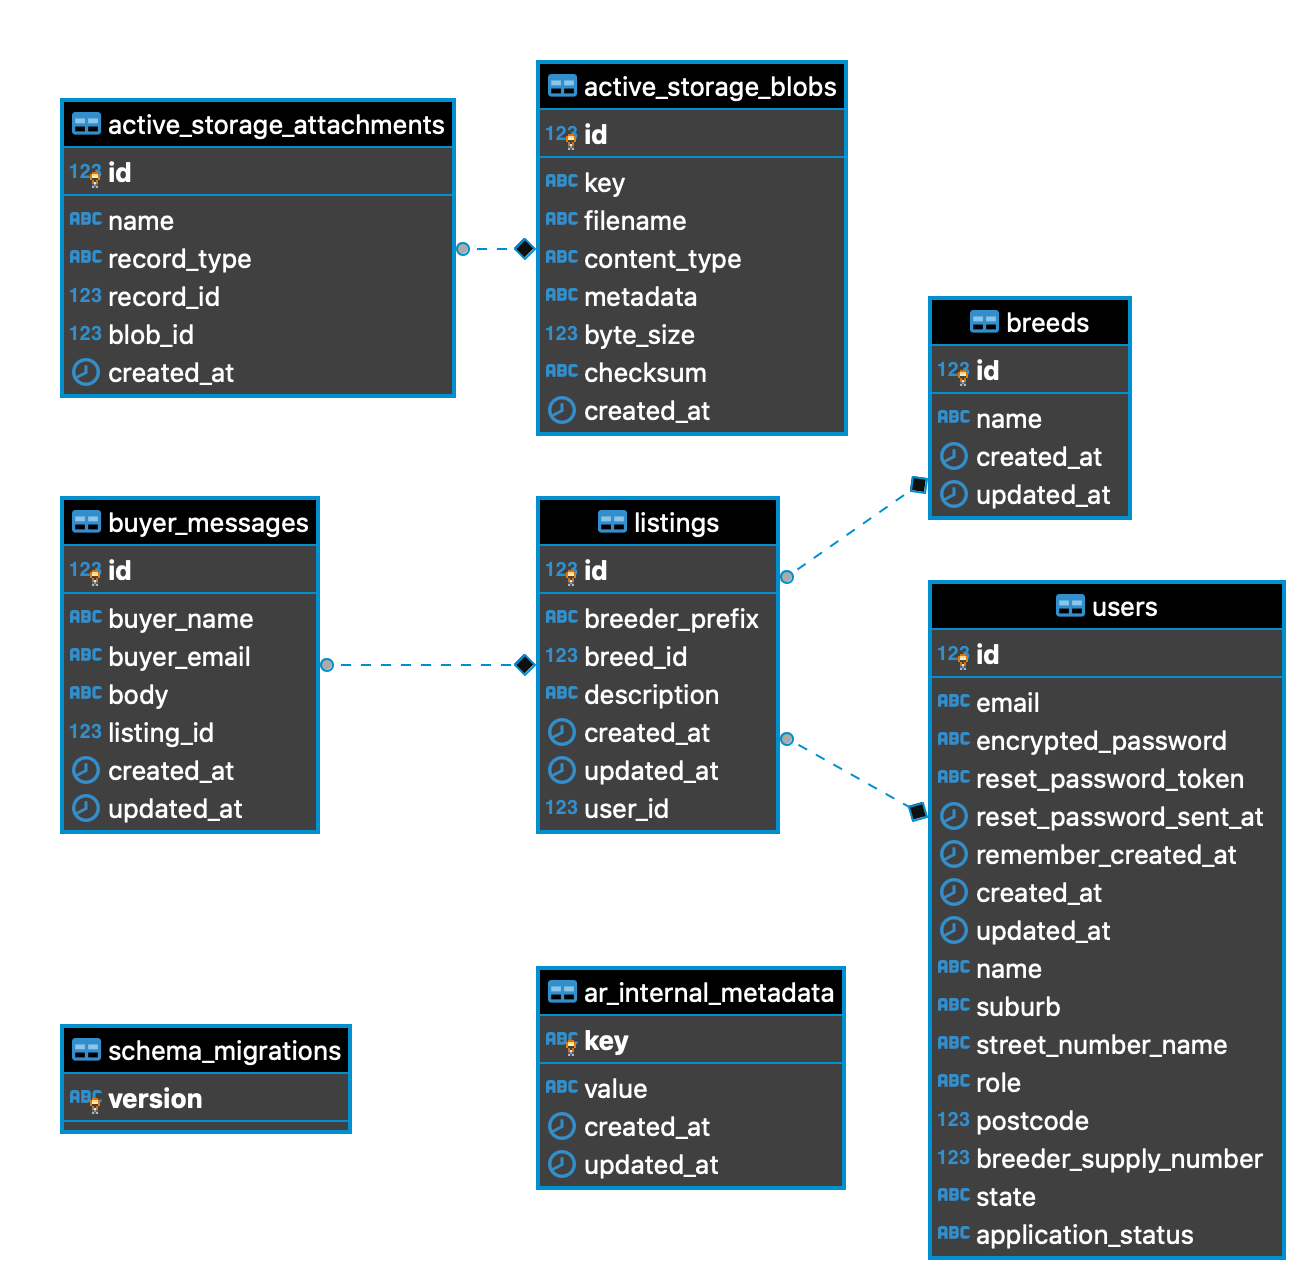
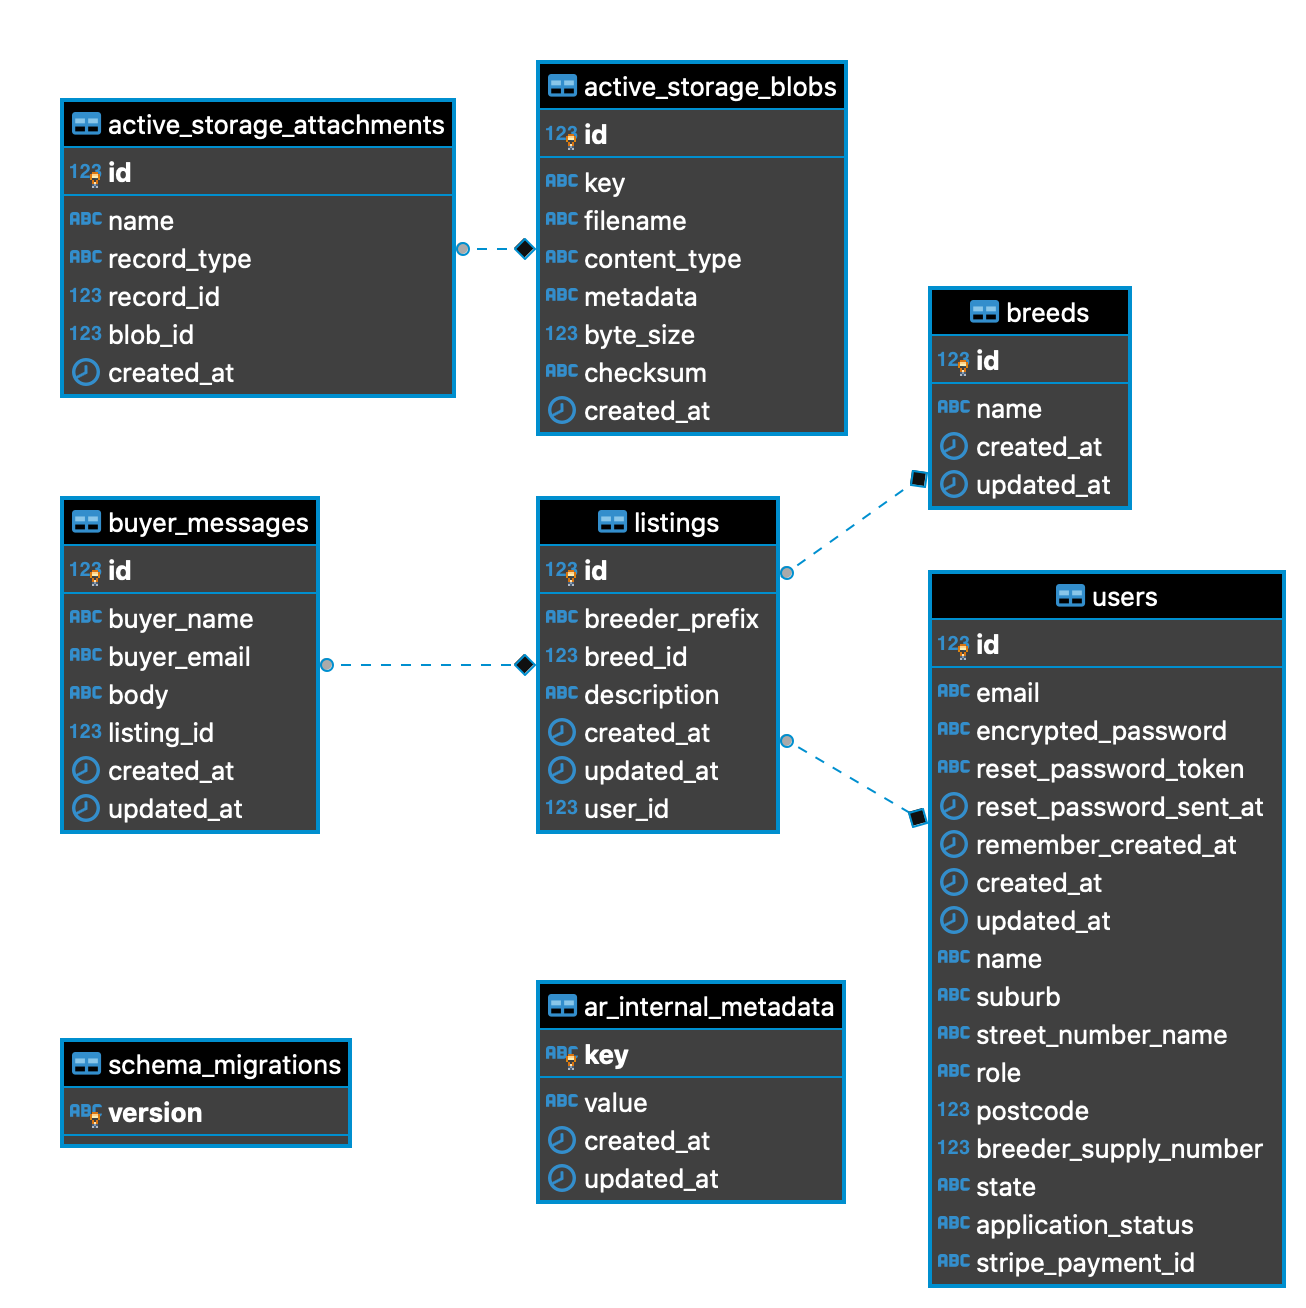
uploads screenshots,erds and code snippets for the documentation and added share-social gem for sharing listings in social medias

diff --git a/app/assets/stylesheets/application.css b/app/assets/stylesheets/application.css
@@ -10,7 +10,7 @@
  * files in this directory. Styles in this file should be added after the last require_* statement.
  * It is generally better to create a new file per style scope.
  *
- 
+ *= require social-share-button
  *= require_tree .
  *= require_self
  */

diff --git a/app/assets/javascripts/application.js b/app/assets/javascripts/application.js
@@ -9,6 +9,7 @@
 //
 // Read Sprockets README (https://github.com/rails/sprockets#sprockets-directives) for details
 // about supported directives.
+//= require social-share-button
 //= require jquery
 //= require rails-ujs
 //= require activestorage

diff --git a/app/dashboards/listing_dashboard.rb b/app/dashboards/listing_dashboard.rb
@@ -27,7 +27,8 @@ class ListingDashboard < Administrate::BaseDashboard
   COLLECTION_ATTRIBUTES = %i[
   breed
   user
-  
+  id
+  picture
   ].freeze
 
   # SHOW_PAGE_ATTRIBUTES

diff --git a/config/initializers/social_share_button.rb b/config/initializers/social_share_button.rb
@@ -1,0 +1,3 @@
+SocialShareButton.configure do |config|
+  config.allow_sites = %w(twitter facebook email whatsapp_web)
+end

diff --git a/README.md b/README.md
@@ -65,16 +65,31 @@ In this app, we aim to:<br/>
 ### Functionality and Features
 
 - Create an account for users to be able to store information.
-- Users who wants to advertise dogs needs to apply to become a seller.
-- Once approved, Seller would be able to add, edit, delete and update listings.
-- Browse all listings added by yourself and other sellers.
-- Be able to send email to seller for the listings were interested in.<br/>
+- Users who wants to advertise dogs needs to apply to become a seller by providing necessary information and uploading a valid Breeder id.
+- Once approved, User will be notify thru email so they can proceed thru the next step which is payment of membership.
+- Once payment is confirmed, user becomes a seller and will be notify with email so they can proceed in puting up listings.
+- Otherwise if rejected, email will be sent to the user so they can re apply.
+- All Users can browse all listings
+- Be able to send custom email to sellers for the listings their interested in.
+- All users can share a particular listing thru social media(eg. facebook and twitter)
+- Admin User can create, edit, update and delete instance of all models (USERs, BREEDs, BUYER/MESSAGESs and LISTINGs )
+- Admin users can edit attributes of Model fields(NAMES, EMAILS,PHONE etc)
+  <br/>
 
 ### Sitemap
 
 ![sitemap](docs/sitemap.png) <br/>
 
 ### Screenshots
+
+![sitemap](docs/sshot1.png) <br/>
+![sitemap](docs/sshot2.png) <br/>
+![sitemap](docs/sshot3.png) <br/>
+![sitemap](docs/sshot4.png) <br/>
+![sitemap](docs/sshot5.png) <br/>
+![sitemap](docs/sshot6.png) <br/>
+![sitemap](docs/sshot7.png) <br/>
+![sitemap](docs/sshot8.png) <br/>
 
 ### Target audience
 
@@ -100,6 +115,7 @@ The user stories I have created involves three key consumer roles: admin, buyer 
 #### As a Seller I want to be able to:
 
 - make an account so my information can be associated with my actions.
+- pay for the membership so I can advertise my listings in the app.
 - alter my account so in case any future changes that will occur.
 - remove my account so they will be no copy of information stored in the website.
 - create a new listing so I can add dogs information for possible buyers to view.
@@ -107,7 +123,32 @@ The user stories I have created involves three key consumer roles: admin, buyer 
 - edit my existing listings so I can change information if necessary.
 - delete my existing listing so I can remove it once sold or if its no longer for sale.
 - view every listings that i have so I can easily see in a glance all my advertisements.
--
+- link my listing so that I can share it thru social media
+  <br/>
+
+#### As a Buyer I want to be able to:
+
+- make an account so my information can be associated with my actions.
+- alter my account so in case any future changes that will occur.
+- remove my account so they will be no copy of information stored in the website.
+- apply as a Seller in case I want to advertise dog as well.
+- search a listing so I can quickly view all the dog breeds I want to buy.
+- view all the available listing in a list so I can browse thru the advertisement.
+- contact the seller thru email so I can make enquiries about the listing.
+- share the listings online so I can pass the ads to other people thru the internet.
+  <br/>
+
+#### As an Admin I want to be able to:
+
+- view all of the dogs for sale so I can easily identify any inappropriate listings.
+- edit a listing so I can change the information, correct any errors or alter inappropriate content.
+- delete a listing so I can remove a advertisements that is not appropriate for the application.
+- search information about the users so that I can easily view the information I needed.
+- approve application of a user to become a seller so that we can control fraud sellers.
+- check if users already paid membership so we can start allowing them to post listings.
+- send email to user once applications approved so that they can proceed to the next step.
+- send email to user once payment is approved so that they can start listing advertisements.
+- reject application so that users should be able to provide the correct document and information needed.
 
 ## Wireframes
 
@@ -128,6 +169,8 @@ The user stories I have created involves three key consumer roles: admin, buyer 
 ![sitemap](docs/ERD.png) <br/>
 
 ## High-level components
+
+This application compose of 4 models which are User, Breed, Listing and Message. The User model was generated by the Devise gem that handles the authentication of the application. We manage to edit the Users table by adding extra coloumns such as addresses, breeder id number , avatar etc that will associate with all the users. The User, Breed and Message models are associated with the Listing model basically users, breeds and messages can have many listings and that listing belongs to the user, breed and message. With the help of the Administrate gem, admin users can perform CRUD in all model instances and edit table and its corresponding columns. Hence, when a user applies to become a seller, admin just need to check the user table and verify its information. By using Active Record Callbacks, we are able to create a function that will send a email (Action Mailer) to users in every changes we do such as application status from pending to approved and other actions. Regarding membership payment, we use Stripe gem to help us process the payment transaction. By using webhooks will be able to tell if the payment goes thru and we store the payment id to the user table for reference. The Listing model which is controlled by its corresponding Listings controller is set to show all listing regardless if you have created an account or not. But will trigger an authentication if you choose to contact the seller will the help of Devise built in helpers such as 'before_action :authenticate_user!'. Once login, users can send custom email messages to the seller by the used of Action Mailer. Google SMTP server was set in the env/production.rb as the email provider.
 
 ## Third party services
 
@@ -155,6 +198,44 @@ The following Ruby on Rails gems were also implemented in the application:
 | Ffaker       | We used this to generate random data in seeding the database. https://github.com/ffaker/ffaker                                                                                                                                                                                                                                       |
 
 ## Active record associations
+
+```ruby
+class User < ApplicationRecord
+  has_many :listings
+  has_one_attached :breeder_id_picture
+  has_one_attached :avatar
+end
+```
+
+User Model has one to many relation with the Listing model, and one to one relation with the breeder id picture and avatar which are two separate blobs. Basically its saying that User has many listings, 1 breeder id picture and 1 avatar picture. <br/>
+
+```ruby
+class Listing < ApplicationRecord
+  belongs_to :breed
+  belongs_to :user
+  has_one_attached :picture
+  has_many :buyer_messages, class_name: "Buyer::Message"
+end
+```
+
+Listing Model has many to one relation(belongs_to) with Breed and User model but has one to many relation with the Buyer::Message model. And one to one relation with picture which is a blob. Basically its saying that Listings has many Breeds, Users and Buyer messages and has 1 picture.<br/>
+
+```ruby
+class Breed < ApplicationRecord
+  has_many :listings
+end
+```
+
+Breed Model has a one to many relation with Listings model
+which means the Breed can have many Listings. <br/>
+
+```ruby
+class Buyer::Message < ApplicationRecord
+  belongs_to :listing
+end
+```
+
+Buyer Message has many to one (belongs_to) relation with Listing which means Listings can have many messages.<br/>
 
 ## Database relations and Database schema
 
